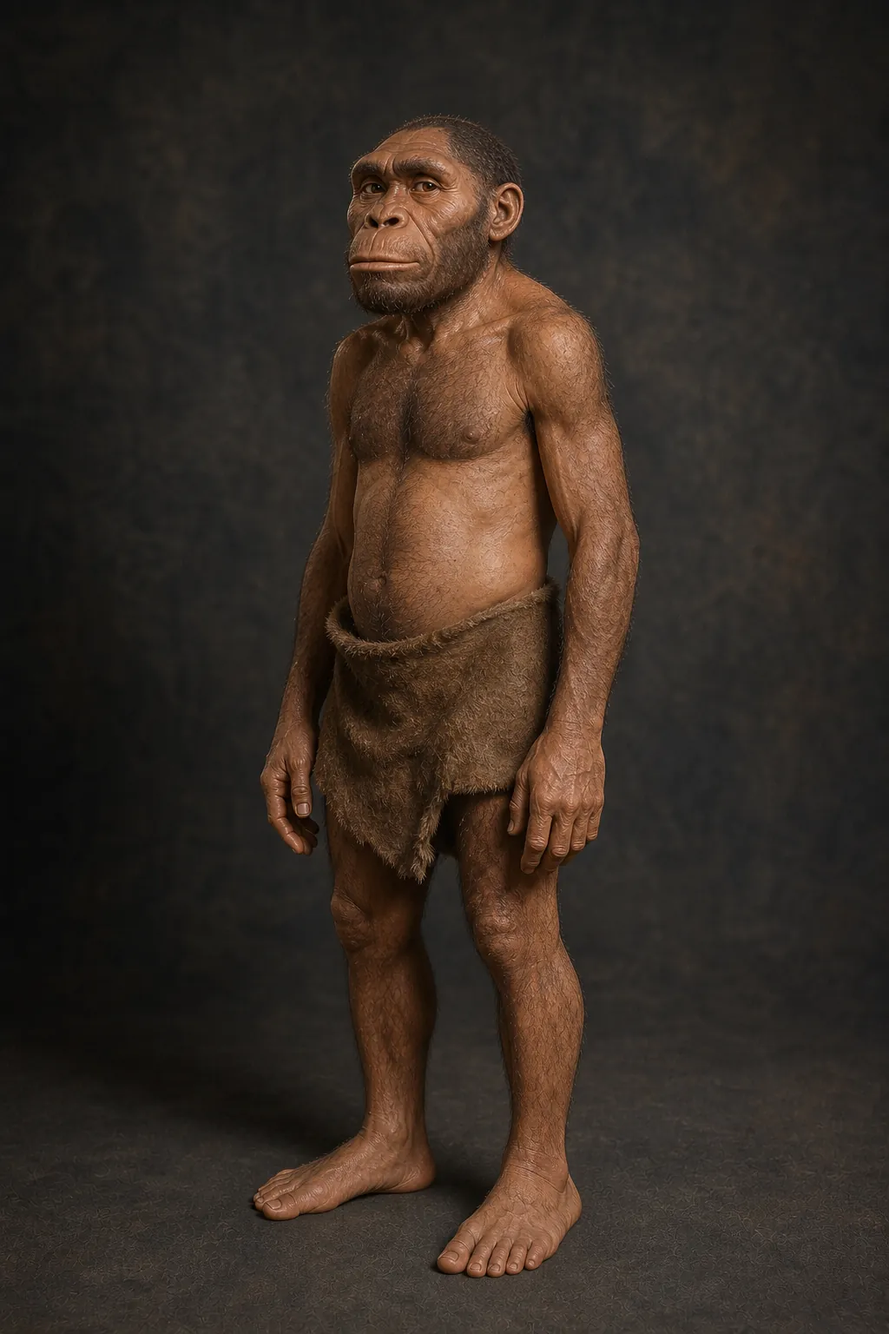
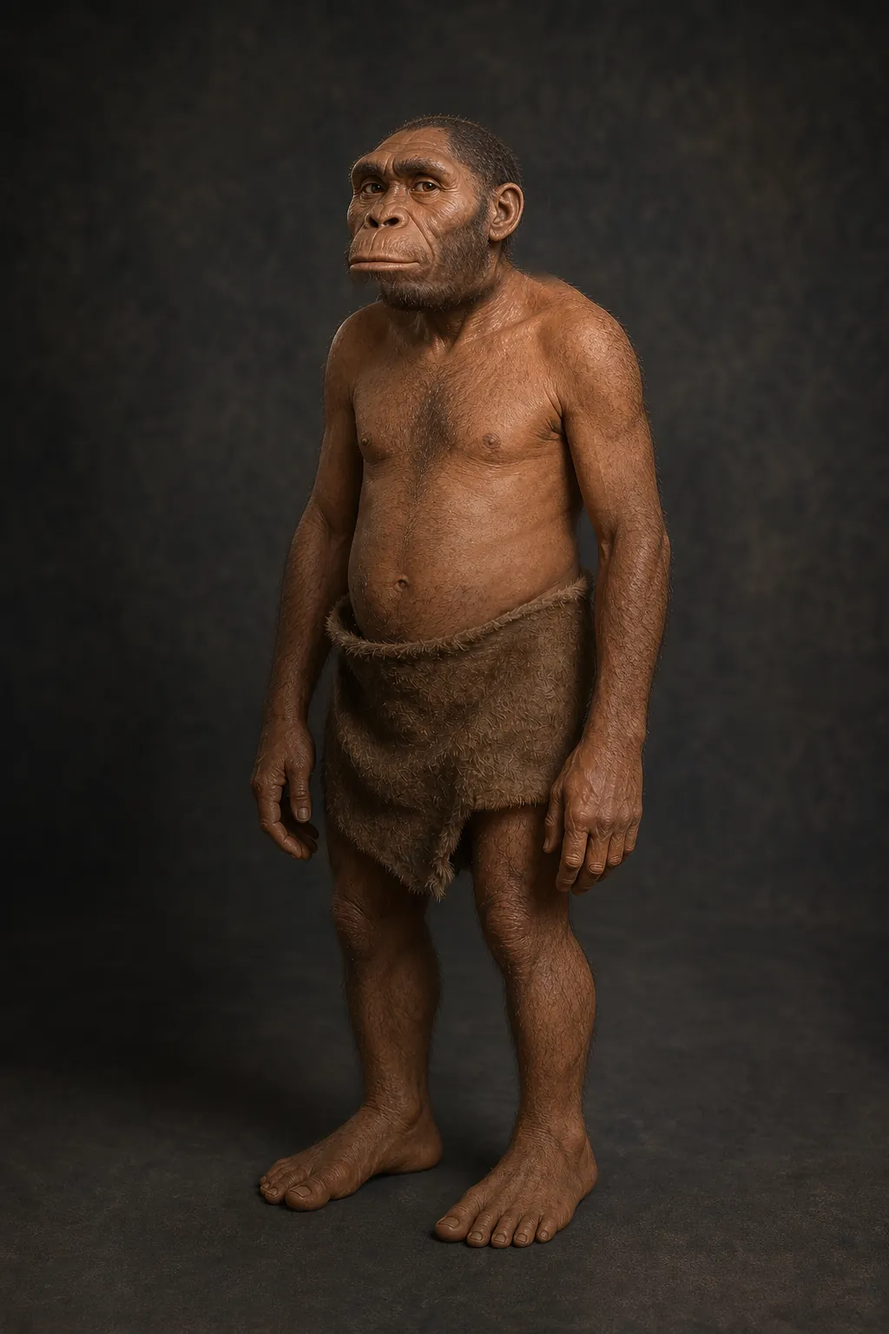
Realistic, species-specific bodies for Homo portraits; new Harbin-style Denisovan pair
Claude-Session: https://claude.ai/code/session_01T91GDopVkXYdE6bdBhk3Gp

Changed region(s): [[0.2812, 0.1875, 0.75, 1.0]]

diff --git a/tools/generate_portraits.py b/tools/generate_portraits.py
@@ -13,7 +13,8 @@ import urllib.request
 import uuid
 from pathlib import Path
 
-from PIL import Image, ImageDraw, ImageFont
+import numpy as np
+from PIL import Image, ImageDraw, ImageFilter, ImageFont
 
 ROOT = Path(__file__).resolve().parent.parent
 STAGES_JSON = ROOT / "src" / "content" / "stages.json"
@@ -23,6 +24,9 @@ STYLE_TEST_DIR = OUT_DIR / "style-test"
 FULL_BODY_DIR = OUT_DIR / "full-body-test"
 PHOTO_DIR = OUT_DIR / "photo-test"
 ALL_RAW_DIR = OUT_DIR / "full"
+BODY_DIR = OUT_DIR / "body-pass"
+CALL_LOG = BODY_DIR / "calls.txt"
+CALL_CAP = 22
 API = "https://api.openai.com/v1"
 SIZE = "1024x1536"
 QUALITY = "medium"
@@ -486,6 +490,93 @@ EXPRESSIONS = {
     ("denisovan", "female"): "calm and relaxed, not frowning, no smile",
 }
 
+BODY = {
+    "homo-sapiens": (
+        "tall, lean, long-limbed and narrow: long legs, a narrow trunk and narrow hips, slim rather than "
+        "defined; little body hair"
+    ),
+    "neanderthal": (
+        "short and very stocky: a deep, wide barrel chest, wide hips, short forearms and short shins, thick "
+        "wrists and knees, large hands; heavy and thick-set, powerful but not defined, a thick waist, "
+        "solid rather than fat; plenty of body hair on the chest, belly, back, arms and legs"
+    ),
+    "denisovan": (
+        "robust and heavy-set like a Neanderthal: broad and thick-boned, a deep wide trunk, thick arms and "
+        "legs, heavy and solid but not defined; moderate body hair. The fur cloak "
+        "stays exactly as it is"
+    ),
+    "homo-heidelbergensis": (
+        "very big, tall and heavy, clearly bigger and broader than an ordinary man: thick-boned, very broad "
+        "shoulders and wide hips, a thick neck, a big deep barrel chest and a thick waist, upper arms as thick "
+        "as an ordinary man's calves, thick heavy thighs and legs, heavy and solid rather than defined, a "
+        "smooth layer of body fat over everything; moderate body hair"
+    ),
+    "homo-erectus": (
+        "tall and long-legged with narrow hips and a lean, narrow trunk, modern-like proportions, wiry rather "
+        "than defined; little body hair"
+    ),
+    "homo-floresiensis": (
+        "tiny: long arms, short legs, very large, long, flat feet, a slight pot belly, narrow sloping "
+        "shoulders rolled forward; modest body hair"
+    ),
+    "homo-habilis": (
+        "small: long, strong arms with the fingertips reaching mid-thigh, short legs, a pot belly, an "
+        "ape-like stooped posture with the shoulders forward; a light covering of short dark body hair"
+    ),
+}
+
+UNIDEALISED = {
+    "male": (
+        "An ordinary, unidealised working body, not a fitness or bodybuilder body: no six-pack and no defined "
+        "abdominal muscles, no sculpted chest, no visible veins, no sharp muscle lines, and not fat or obese "
+        "either; everyday muscle from hard daily work under a thin, even layer of body fat, a belly that is "
+        "flat to slightly rounded, a slight slouch with the shoulders a little forward. Smooth, even, matte "
+        "skin with fine pores, some dust and dirt on the hands, knees and feet, a few small old scars, "
+        "calluses on the hands and soles, untrimmed body hair."
+    ),
+    "female": (
+        "An ordinary, unidealised woman's working body, no glamour or fashion figure: a natural chest fully "
+        "covered by the garment with no shape showing through, a natural soft belly and hips, everyday muscle "
+        "from hard daily work under a thin, even layer of body fat, no defined muscles, no visible veins, not "
+        "fat or obese, a slight slouch with the shoulders a little forward. Smooth, even, matte skin with fine "
+        "pores, some dust and dirt on the hands, knees and feet, a few small old scars, calluses on the hands "
+        "and soles, untrimmed body hair."
+    ),
+}
+
+BODY_PROMPT = (
+    "Edit this exact studio photograph. Keep the whole head and the hair, the backdrop, floor, lighting, "
+    "colour grade, framing, camera angle, stance and skin colour exactly as they are, and redraw only the "
+    "body below the neck so it joins the unchanged head naturally. The backdrop fills the whole frame edge "
+    "to edge, with no black bars or borders. The skin of the neck, shoulders, arms and legs is the same "
+    "brown as the face, in the same soft light, not lighter, pinker or more orange. "
+)
+
+BODY_COVER = (
+    "The hip wrap stays exactly as large, thick and opaque as in the photograph, hanging loose, never smaller "
+    "or tighter. Every hide garment is soft, matte suede with an even fine nap, with no crackle, scale or net "
+    "pattern. A sober, non-sexual museum figure study. "
+)
+
+KEEP_HEAD = (
+    "The head must stay pixel-identical to the input photograph: do not change it in any way. "
+)
+
+FROM_MALE = {
+    "denisovan-female": (
+        "Edit this exact studio photograph of a Denisovan man and turn him into a Denisovan woman of the same "
+        "species, about 25, who reads at a glance as a woman. Keep the skull shape, the thick level brow shelf "
+        "exactly as heavy, the low sloping forehead, the face width, the broad flat nose and the dark brown skin "
+        "tone. Make her face a woman's: smooth unlined skin with no forehead lines, no frown lines and no folds "
+        "beside the nose or mouth, relaxed brows, fuller rounded cheeks, softer fuller lips, a smaller, rounder "
+        "and lighter lower jaw, a slender neck and narrower shoulders. Remove all beard and stubble: the chin, "
+        "jaw, cheeks and upper lip are bare smooth skin the same colour as the forehead. Long, straight, "
+        "jet-black hair parted in the middle, combed back off the forehead, in two long plaits hanging in front "
+        "of the shoulders. Calm, gentle expression, mouth closed. Keep the backdrop, floor, lighting, colour "
+        "grade, framing and stance. "
+    ),
+}
+
 
 def api_key():
     key = os.environ.get("OPENAI_API_KEY")
@@ -544,11 +635,11 @@ def multipart(fields, files):
     return buf.getvalue(), f"multipart/form-data; boundary={boundary}"
 
 
-def generate(api, prompt, out_path, refs=()):
+def generate(api, prompt, out_path, refs=(), mask=None):
     key, model = api
     fields = {"model": model, "prompt": prompt, "size": SIZE, "quality": QUALITY, "n": 1}
     if refs:
-        body, ctype = multipart(fields, [("image[]", r) for r in refs])
+        body, ctype = multipart(fields, [("image[]", r) for r in refs] + ([("mask", mask)] if mask else []))
         url = f"{API}/images/edits"
     else:
         body, ctype = json.dumps({**fields, "output_format": "png"}).encode(), "application/json"
@@ -792,6 +883,152 @@ def retouch_all(api, only, key_model):
     full_sheet(load_stages())
 
 
+def spend(key, purpose):
+    lines = [ln for ln in CALL_LOG.read_text(encoding="utf-8").splitlines() if ln.strip()] if CALL_LOG.exists() else []
+    if len(lines) >= CALL_CAP:
+        sys.exit(f"call cap {CALL_CAP} reached, see {CALL_LOG.relative_to(ROOT)}")
+    CALL_LOG.parent.mkdir(parents=True, exist_ok=True)
+    with CALL_LOG.open("a", encoding="utf-8") as f:
+        f.write(f"{key}, {purpose}\n")
+    print(f"  image call {len(lines) + 1}/{CALL_CAP}", flush=True)
+
+
+def body_text(subj, sex):
+    if subj["id"] not in BODY:
+        sys.exit(f"no BODY entry for {subj['id']}")
+    sentences = re.split(r"(?<=\.)\s+", subj["anatomy"][sex])
+    build = next(s for s in sentences if re.search(r"\d\.\d+ m\b", s))
+    build = re.sub(r"(,| and)? (heavily )?(muscled|muscular)\b", "", build).rstrip(".")
+    clothing = CLOTHING.get((subj["id"], sex), CLOTHING[sex])
+    return (
+        f"Body: an adult {sex} {subj['species']}. {build}. Build: {BODY[subj['id']]}. {UNIDEALISED[sex]} "
+        f"Clothing, unchanged in material and colour: {clothing}. {BODY_COVER}"
+    )
+
+
+def head_box(img, top_frac, half_width=0.17):
+    """Keep-box (x0, y0, x1, y1) around the head: full height down to top_frac of the image, centred on the
+    figure's crown found against the backdrop colour."""
+    a = np.asarray(img.convert("RGB").filter(ImageFilter.GaussianBlur(3))).astype(float)
+    border = np.concatenate([a[:, :40].reshape(-1, 3), a[:, -40:].reshape(-1, 3)])
+    bg = np.median(border, 0)
+    dist = np.sqrt(((a - bg) ** 2).sum(2))
+    fg = dist > np.percentile(np.sqrt(((border - bg) ** 2).sum(1)), 99) + 10
+    rows = np.where(fg.sum(1) > 8)[0]
+    top = rows[0] if len(rows) else 0
+    xs = np.where(fg[top:top + 120])[1]
+    w, h = img.size
+    cx = int(np.median(xs)) if len(xs) else w // 2
+    hw = int(w * half_width)
+    return max(0, cx - hw), 0, min(w, cx + hw), int(h * top_frac)
+
+
+def blur(a, sigma):
+    r = int(3 * sigma)
+    k = np.exp(-0.5 * (np.arange(-r, r + 1) / sigma) ** 2)
+    k /= k.sum()
+    a = np.pad(a, ((r, r), (r, r)) + ((0, 0),) * (a.ndim - 2), mode="edge")
+    a = np.apply_along_axis(lambda v: np.convolve(v, k, "valid"), 0, a)
+    return np.apply_along_axis(lambda v: np.convolve(v, k, "valid"), 1, a)
+
+
+def figure_mask(small):
+    border = np.concatenate([small[:, :5].reshape(-1, 3), small[:, -5:].reshape(-1, 3)])
+    bg = np.median(border, 0)
+    fg = np.sqrt(((small - bg) ** 2).sum(2)) > np.percentile(np.sqrt(((border - bg) ** 2).sum(1)), 95) + 6
+    for _ in range(4):
+        fg = fg | np.roll(fg, 1, 0) | np.roll(fg, -1, 0) | np.roll(fg, 1, 1) | np.roll(fg, -1, 1)
+    return fg
+
+
+def backdrop_light(small, bg):
+    """Low-frequency backdrop colour, filled in behind the figure from the surrounding backdrop."""
+    fields = []
+    for sigma in (4, 16):
+        den = blur(bg.astype(float), sigma)
+        fields.append((blur(small * bg[..., None], sigma) / np.maximum(den, 1e-6)[..., None], den))
+    (near, den), (far, _) = fields
+    a = np.clip(den / 0.3, 0, 1)[..., None]
+    return a * near + (1 - a) * far
+
+
+def relight(master, result, scale=8):
+    """Relights result so its backdrop matches the master's local backdrop light (spot glow included)."""
+    w, h = master.size
+    small = [np.asarray(im.resize((w // scale, h // scale), Image.BOX)).astype(float) for im in (master, result)]
+    bg = ~(figure_mask(small[0]) | figure_mask(small[1]))
+    ratio = np.clip(backdrop_light(small[0], bg) / np.maximum(backdrop_light(small[1], bg), 1), 0.5, 2)
+    up = np.stack(
+        [np.asarray(Image.fromarray(ratio[..., c].astype(np.float32), "F").resize((w, h), Image.BILINEAR)) for c in range(3)],
+        2,
+    )
+    return Image.fromarray(np.clip(np.asarray(result).astype(float) * up, 0, 255).astype(np.uint8))
+
+
+def paste_head(master, result, box, feather=24):
+    result = relight(master, result.convert("RGB").resize(master.size, Image.LANCZOS))
+    keep = Image.new("L", master.size, 0)
+    x0, y0, x1, y1 = box
+    ImageDraw.Draw(keep).rectangle((x0 + feather, y0, x1 - feather, y1 - feather), fill=255)
+    keep = keep.filter(ImageFilter.GaussianBlur(feather / 2))
+    return Image.composite(master, result, keep)
+
+
+def recomposite(only, mask_top):
+    for key in sorted(only):
+        master = Image.open(ALL_RAW_DIR / f"{key}.png").convert("RGB")
+        box = head_box(master, mask_top)
+        paste_head(master, Image.open(BODY_DIR / f"{key}-raw.png"), box).save(BODY_DIR / f"{key}.png")
+        print(f"[{key}] recomposited, keep box {box}")
+
+
+def body_pass(api, only, mask_top, keep_boxes):
+    stages = load_stages()
+    for key in sorted(only):
+        stage_id, sex = key.rsplit("-", 1)
+        master_path = ALL_RAW_DIR / f"{key}.png"
+        master = Image.open(master_path).convert("RGB")
+        box = head_box(master, mask_top)
+        mask = Image.new("RGBA", master.size, (0, 0, 0, 0))
+        ImageDraw.Draw(mask).rectangle(box, fill=(0, 0, 0, 255))
+        w, h = master.size
+        for fx0, fy0, fx1, fy1 in keep_boxes:
+            ImageDraw.Draw(mask).rectangle((fx0 * w, fy0 * h, fx1 * w, fy1 * h), fill=(0, 0, 0, 255))
+        BODY_DIR.mkdir(parents=True, exist_ok=True)
+        mask_path = BODY_DIR / f"{key}-mask.png"
+        mask.save(mask_path)
+        raw = BODY_DIR / f"{key}-raw.png"
+        prompt = check_banned(BODY_PROMPT + body_text(subject(stages, stage_id), sex))
+        print(f"[{key}] body pass, {api[1]}, keep box {box}", flush=True)
+        spend(key, f"body pass, mask keep box {box} + {keep_boxes}")
+        try:
+            generate(api, prompt, raw, [master_path], mask_path)
+        except RuntimeError as e:
+            if "HTTP 400" not in str(e) or "mask" not in str(e).lower():
+                raise
+            print(f"  mask refused ({e}); full-image edit, head pasted back", flush=True)
+            prompt = check_banned(KEEP_HEAD + prompt)
+            spend(key, "body pass, full-image fallback (mask refused)")
+            generate(api, prompt, raw, [master_path])
+        paste_head(master, Image.open(raw), box).save(BODY_DIR / f"{key}.png")
+        log_prompt(BODY_DIR / "prompts.json", key, prompt)
+        print(f"  saved {(BODY_DIR / f'{key}.png').relative_to(ROOT)} (head pasted back from the master)")
+
+
+def from_male(api, only):
+    stages = load_stages()
+    for key in sorted(only):
+        if key not in FROM_MALE:
+            sys.exit(f"no FROM_MALE entry for {key}")
+        stage_id = key.rsplit("-", 1)[0]
+        male = ALL_RAW_DIR / f"{stage_id}-male.png"
+        prompt = check_banned(FROM_MALE[key] + body_text(subject(stages, stage_id), "female"))
+        print(f"[{key}] from {male.name}, {api[1]}", flush=True)
+        spend(key, f"from-male edit of {male.name}")
+        generate(api, prompt, BODY_DIR / f"{key}.png", [male])
+        log_prompt(BODY_DIR / "prompts.json", key, prompt)
+
+
 def main():
     p = argparse.ArgumentParser(description="Generate hominin portraits with the OpenAI Images API")
     mode = p.add_mutually_exclusive_group(required=True)
@@ -801,11 +1038,16 @@ def main():
     mode.add_argument("--all", action="store_true")
     mode.add_argument("--contact-sheet", action="store_true")
     mode.add_argument("--retouch", action="store_true", help="edit the --only keys' own images with RETOUCH")
+    mode.add_argument("--body", action="store_true", help="masked body-only edit of the --only keys' masters")
+    mode.add_argument("--from-male", action="store_true", help="edit the species male into the --only female key")
+    mode.add_argument("--recomposite", action="store_true", help="re-paste the master head onto the saved body-pass raw")
     p.add_argument("--style", choices=sorted(STYLES))
     p.add_argument("--anchor", type=Path, default=PHOTO_DIR / "neanderthal-male.png")
     p.add_argument("--only", default="", help="comma-separated keys, e.g. neanderthal-female or B-neanderthal-male")
     p.add_argument("--extra", default="", help="text appended to every prompt in this run")
     p.add_argument("--model", help="override the auto-picked model")
+    p.add_argument("--mask-top", type=float, default=0.235, help="--body: keep-box bottom as a fraction of image height")
+    p.add_argument("--keep-box", action="append", default=[], help="--body: extra kept region x0,y0,x1,y1 as fractions")
     args = p.parse_args()
     only = {k.strip() for k in args.only.split(",") if k.strip()}
     stages = load_stages()
@@ -815,6 +1057,20 @@ def main():
         full_body_sheet(stages)
         photo_sheet(stages)
         full_sheet(stages)
+        return
+
+    if (args.body or args.from_male or args.recomposite) and not only:
+        sys.exit("--body, --from-male and --recomposite need --only")
+    if args.recomposite:
+        recomposite(only, args.mask_top)
+        return
+    if args.body or args.from_male:
+        key = api_key()
+        if args.body:
+            keep = [tuple(float(v) for v in b.split(",")) for b in args.keep_box]
+            body_pass((key, args.model or "gpt-image-2"), only, args.mask_top, keep)
+        else:
+            from_male((key, args.model or KEY_MODEL.get(next(iter(only)), "gpt-image-2")), only)
         return
 
     if args.all and not args.anchor.exists():

diff --git a/tools/portrait_prompt.md b/tools/portrait_prompt.md
@@ -269,3 +269,75 @@ Results:
 - Backdrop corners: Denisovan female 19/17/15 and 32/29/26, floresiensis female 19/18/16 and 30/25/21. The pre-11 floresiensis was 8/7/4 and 19/16/12, so the new one matches the set better.
 - The kept floresiensis female is again a retouch. A fresh `--all` for that key must be followed by `--retouch`.
 - `contact-sheet.png` rebuilt. `compare-archaic.png` has the new Denisovan female tile (crop 220,20 to 740,540).
+
+## Body pass (`--body`, `--from-male`)
+
+Playtest: "the AI images only changed the face, the man is still ripped". These modes redraw the body below the neck and keep the passed head. Output goes to `tools/out/body-pass/`, never over the masters. Every image call is appended to `tools/out/body-pass/calls.txt` (`key, purpose`) and the tool refuses once it holds `CALL_CAP` (22) lines.
+
+`--body --only KEY[,KEY]` (default model `gpt-image-2`):
+
+- `head_box()` finds the crown against the backdrop colour and keeps a box 0.34 of the image wide, from the top down to `--mask-top` (fraction of image height, default 0.235). `--keep-box x0,y0,x1,y1` (fractions, repeatable) keeps extra regions, such as the hip wrap. The mask (`<key>-mask.png`, opaque = keep) goes with the master to `/v1/images/edits`.
+- The prompt is `BODY_PROMPT` (keep head, hair, backdrop, light, framing, stance, skin colour; redraw only the body below the neck) plus `body_text()`: the height/weight sentence of the anatomy note with "muscled"/"muscular" cut out, `BODY[stage]` (species build from the evidence brief), `UNIDEALISED[sex]` (no six-pack, sculpted chest or veins, not fat either, slight slouch, dust, scars, calluses, untrimmed body hair; females: chest fully covered, no shape showing, natural belly and hips), the clothing slot and `BODY_COVER` (hip wrap stays as large and opaque, sober museum figure study). No face words. Early apes have no `BODY` entry.
+- gpt-image-2 accepts the mask but treats it only as a hint: it redraws the whole frame (new head, darker backdrop). So `paste_head()` relights the raw output to the master's local backdrop light (`relight()`, see Try 12) and pastes the master's head box back with a 24 px feather. The face is pixel-identical to the master. The raw API image is kept as `<key>-raw.png`.
+- If the API ever refuses the mask, the tool falls back to a full-image edit with `KEEP_HEAD` in front of the prompt (one more call) and still pastes the head back.
+- Tune `--mask-top` per image: too high and the model's own chin shows under the pasted mouth; too low and the master's shoulder ghosts over the backdrop. Check a crop of the neck.
+
+`--from-male --only denisovan-female` (model from `KEY_MODEL`, flare): edits `tools/out/full/denisovan-male.png` with `FROM_MALE[key]` (same skull, brow shelf, face width, nose and skin tone; no beard or stubble; features only slightly finer; long straight jet-black hair) plus `body_text()` for the female and the closed fur cloak. No mask. Not run yet.
+
+Pilot, Neanderthal male (2 calls):
+
+- Call 1 (head box only, everything else editable): `moderation_blocked` (output, sexual). Probably the redrawn hip wrap came out smaller.
+- Call 2 (`--keep-box 0.327,0.445,0.61,0.654` over the hip wrap, plus `BODY_COVER`): passed. The wrap was still redrawn (mask is only a hint) but stayed large. Body no longer ripped: barrel chest, thick waist, short shins, hairy, slight slouch. But it overshot into obese with a beer belly, and legs and feet show the set's crackle texture. Face unchanged and no visible seam after the gain match and `--mask-top 0.235`. Not accepted.
+- After call 2 (untested): Neanderthal `BODY` says "a thick waist, solid rather than fat" instead of "muscle hidden under a solid layer of fat"; `UNIDEALISED` adds "not fat or obese", "a thin, even layer of body fat", "a belly flat to slightly rounded", and swaps "rough, lived-in skin with dirt and grime" for "smooth, even, matte skin with fine pores, some dust and dirt".
+
+```bash
+python tools/generate_portraits.py --body --only neanderthal-male --keep-box 0.327,0.445,0.61,0.654
+python tools/generate_portraits.py --from-male --only denisovan-female
+```
+
+Body pass run (calls 3 to 18 of 22; nothing published). Per-key flags used:
+
+| key | `--mask-top` | `--keep-box` |
+| --- | --- | --- |
+| homo-sapiens-male | 0.195 | 0.31,0.41,0.64,0.61 |
+| homo-sapiens-female | 0.19 | 0.30,0.19,0.62,0.62 |
+| neanderthal-male | 0.235 | 0.327,0.445,0.61,0.654 |
+| neanderthal-female | 0.20 | 0.26,0.24,0.63,0.645 |
+| denisovan-male | 0.21 | 0.31,0.42,0.63,0.65 |
+| homo-heidelbergensis-male | 0.21 (recomposited at 0.185) | 0.33,0.42,0.65,0.65 |
+| homo-heidelbergensis-female | 0.20 | 0.29,0.16,0.64,0.64 |
+| homo-erectus-male | 0.20 (recomposited at 0.185) | 0.30,0.39,0.64,0.62 |
+| homo-erectus-female | 0.195 | 0.31,0.18,0.68,0.64 |
+| homo-floresiensis-male | 0.225 | 0.34,0.44,0.63,0.67 |
+| homo-floresiensis-female | 0.21 | 0.29,0.27,0.63,0.67 |
+| homo-habilis-male | 0.215 | 0.31,0.44,0.645,0.68 |
+| homo-habilis-female | 0.20 | 0.27,0.18,0.67,0.66 |
+
+- Recompositing is free: `paste_head(master, raw, head_box(master, top))` on the saved `<key>-raw.png`. Keep line about 0.015 below the chin. Higher shows the model's own lip under the mouth (floresiensis male at 0.21); lower ghosts the master's trapezius behind the neck (heidelbergensis and erectus males at 0.20 to 0.21). A wider feather (48, 80) blends the model's face into the master's: keep 24.
+- Sapiens female and erectus female came back letterboxed on the first call (the figure in a narrow strip between black bars), so the gain match blew the frame to white. One retry each. `BODY_PROMPT` now says the backdrop fills the frame edge to edge with no black bars; both retries were full frame.
+- Results: no six-packs anywhere. Neanderthal male barrel-chested, thick waist, slightly rounded belly (no longer obese). Floresiensis and habilis males pot-bellied with long arms. Sapiens and erectus lean and narrow. Faces pixel-identical (mean head diff under 5 on 0-255).
+- Faults: Denisovan male came out average-sized with a pot belly (not robust), the cloak got narrower and the body skin is lighter and more orange than the face. Heidelbergensis male is ordinary-sized, not very big. Erectus female has a lighter rectangle of the master's backdrop around the head (the master had a spot glow behind the head). The hide tops show the set's scale-like crackle texture.
+- Denisovan female `--from-male` (1 call, flare): archaic face kept (brow shelf, sloping forehead, wide flat face), beard gone, long straight black hair, cloak closed, heavy-set body and thick legs. It does not read as a living woman, but it reads as the male with long hair: frown, nasolabial folds, heavy jaw. Not clearly a woman.
+- `body-pass/contact-sheet.png` shows all 14.
+
+## Try 12 (bodies)
+
+The independent review failed all 10 body-pass keys it listed. Most failures were a lighter or darker rectangle around the pasted head. The others were the Denisovan female (she read as the male with long hair), the Denisovan and heidelbergensis males (average build, not robust or big), and the heidelbergensis female (orange neck and shoulders, hide crackle). Calls 19 to 21 of 22 were used, and call 22 was left unspent.
+
+Tool changes:
+
+- `paste_head()` no longer applies one global gain from the frame edges. `relight()` instead finds the backdrop in both images (`figure_mask()` at 1/8 scale, dilated) and estimates the low-frequency backdrop light of each (`backdrop_light()`: normalised Gaussian at sigma 4 and 16 cells, filled in behind the figure). It then multiplies the raw image by the master/raw ratio, so the raw takes on the master's local spot glow and the pasted head box no longer shows as a rectangle. Edge steps (inside minus outside, levels) now match the master's own gradient. Examples: sapiens male 2/6 (master 0/5, old 12/12), erectus female 8/7 (master 7/6, old 13/16), floresiensis male 0/0 (master 1/1, old 8/11).
+- New `--recomposite --only KEY --mask-top X`: re-pastes the master head onto the saved `<key>-raw.png` (no API call). The composites made before the relight are in `body-pass/pre-relight/`.
+- `BODY["homo-heidelbergensis"]` now asks for "clearly bigger and broader than an ordinary man", a thick neck, a barrel chest, "upper arms as thick as an ordinary man's calves" and a smooth layer of body fat.
+- `BODY_PROMPT`: the skin of the neck, shoulders, arms and legs is the same brown as the face, not lighter, pinker or more orange. `BODY_COVER`: every hide garment is soft, matte suede with an even, fine nap and no crackle, scale or net pattern.
+- `FROM_MALE["denisovan-female"]` rewritten. She is about 25 and "reads at a glance as a woman": no forehead, frown or nasolabial lines, relaxed brows, fuller cheeks and lips, a smaller and rounder lower jaw, a slender neck, narrower shoulders, and two long plaits. The brow shelf stays "exactly as heavy", along with the sloping forehead, face width, flat nose and skin tone.
+
+Results:
+
+- Recomposited with no API call: sapiens male and female, Neanderthal male and female, erectus male and female, floresiensis male and female, habilis male and female. No rectangle shows at full or contact-sheet size.
+- Denisovan female (call 19, flare, `--from-male`): kept. Plaits, a smooth hairless face, softer lips and a slender neck, with the male's heavy brow shelf, sloping forehead, wide flat face and flat nose. Closed cloak and robust body. The try before this is `body-pass/denisovan-female-try1.png`.
+- Heidelbergensis male (call 20, gpt-image-2, recomposited at 0.185): kept. Big and broad, with thick arms, a barrel chest and a rounded belly. No six-pack, and the neck join is continuous. Try 1 is `body-pass/homo-heidelbergensis-male-try1.png`.
+- Heidelbergensis female (call 21, gpt-image-2): not kept. The hide top still has a strong net or crackle pattern despite the new `BODY_COVER` wording, a side slit shows the flank, and the shoulders are still more orange than the face. The try-1 composite (relit, `-try1.png`) fixed the box edge but has the same crackle. Her published image is unchanged.
+- Denisovan male: the body pass is not used. The new master (fur cloak, Harbin face, already robust and hairy) is published as is.
+- Published to `public/portraits/` (and copied over `tools/out/full/`, old masters in `rejected/<key>-prebody.png`): sapiens male and female, Neanderthal male and female, erectus male and female, floresiensis male and female, habilis male and female, heidelbergensis male, and the Denisovan male and female together. Only the heidelbergensis female keeps her old image.
+- The new masters for these keys are body-pass composites or a from-male edit. `--all` will not recreate them.
